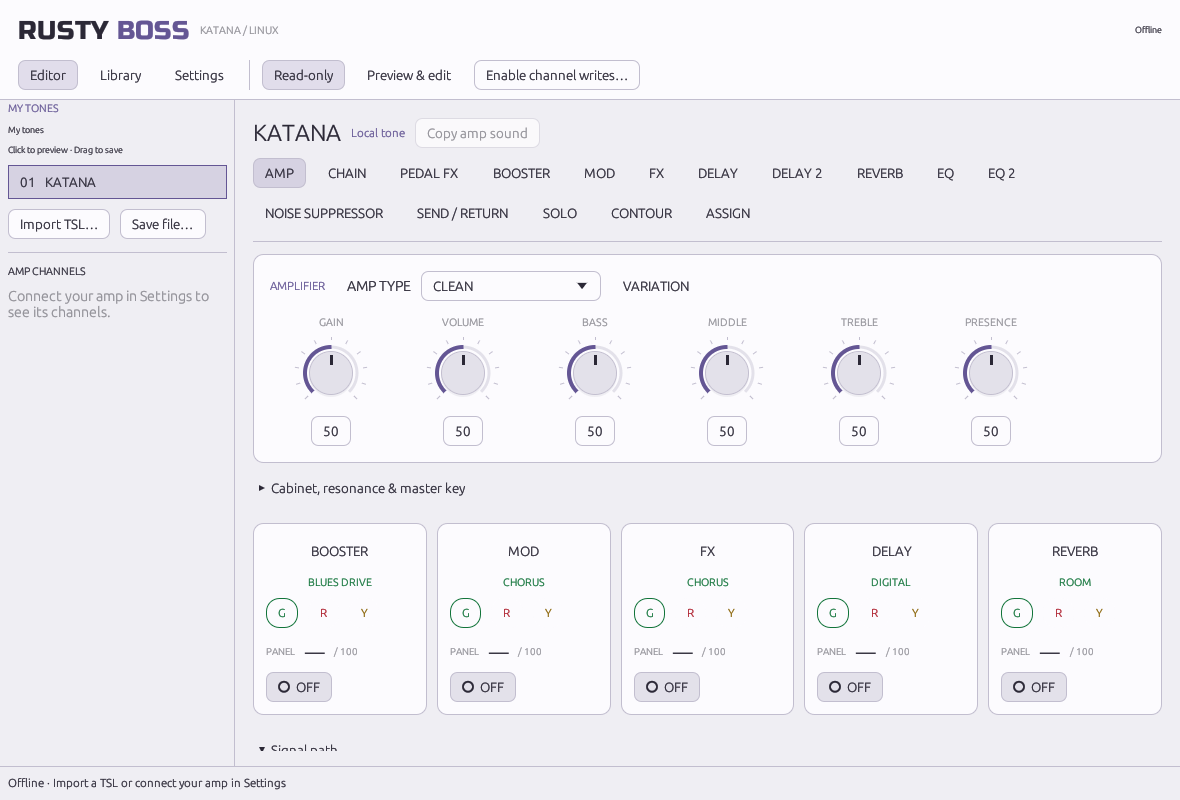
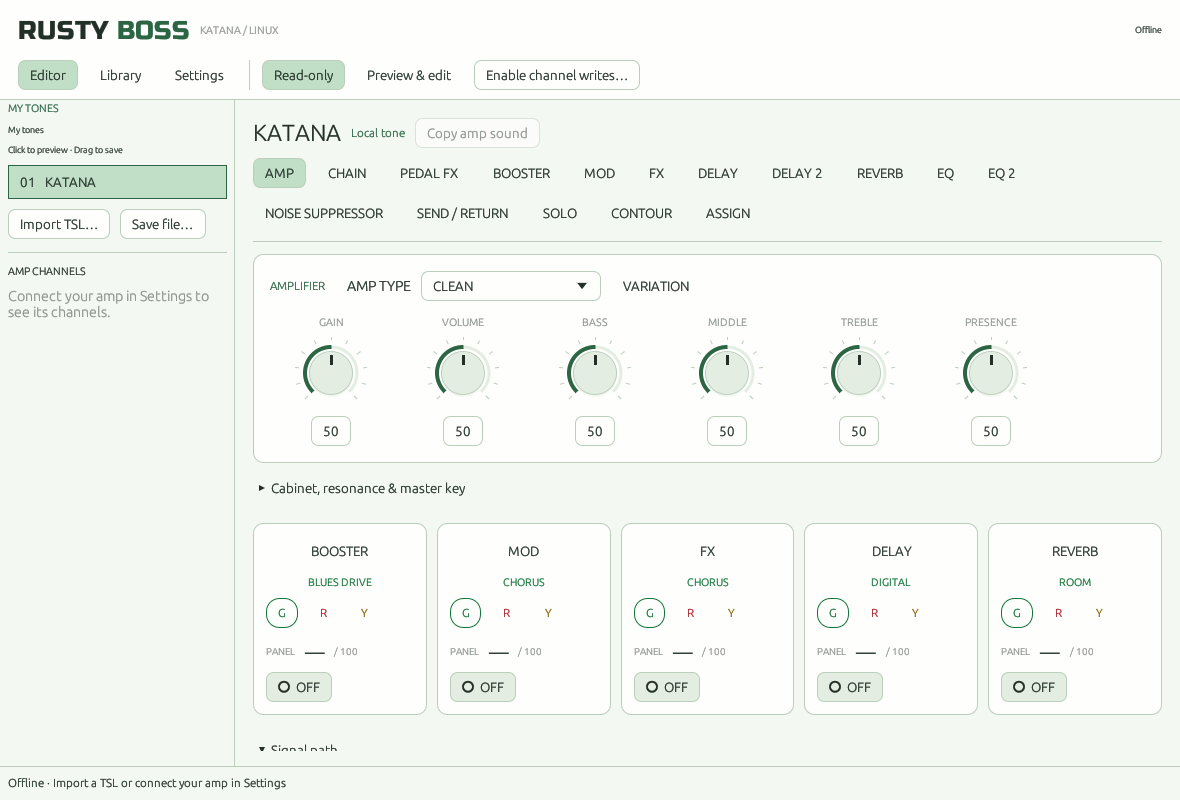
Updated themes

diff --git a/src/gui/theme.rs b/src/gui/theme.rs
@@ -23,21 +23,36 @@ impl Theme {
     }
     pub fn accent(self) -> Color32 {
         match self {
-            Self::Justice => Color32::from_rgb(100, 86, 148),
+            // Pale green is used for fills; text/knob accents need contrast on white.
+            Self::Justice => Color32::from_rgb(43, 101, 68),
             Self::Kill => Color32::from_rgb(245, 79, 91),
-            Self::Puppet => Color32::from_rgb(244, 161, 85),
-            Self::Lightning => Color32::from_rgb(62, 195, 255),
+            Self::Puppet => Color32::from_rgb(244, 166, 94),
+            Self::Lightning => Color32::from_rgb(137, 183, 234),
+        }
+    }
+    fn selection_accent(self) -> Color32 {
+        match self {
+            Self::Lightning => Color32::from_rgb(185, 149, 240),
+            _ => self.accent(),
+        }
+    }
+    fn selection_fill(self) -> Color32 {
+        match self {
+            Self::Justice => Color32::from_rgb(193, 223, 199),
+            Self::Kill => Color32::from_rgb(60, 24, 33),
+            Self::Puppet => Color32::from_rgb(87, 58, 36),
+            Self::Lightning => Color32::from_rgb(58, 47, 86),
         }
     }
     pub fn apply(self, ctx: &egui::Context) {
         let light = self == Self::Justice;
         let (background, surface, raised, text, border) = match self {
             Self::Justice => (
-                (239, 238, 243),
-                (252, 251, 254),
-                (227, 225, 234),
-                (43, 40, 54),
-                (194, 190, 207),
+                (244, 248, 242),
+                (254, 255, 252),
+                (227, 237, 226),
+                (34, 48, 39),
+                (186, 206, 187),
             ),
             Self::Kill => (
                 (24, 15, 20),
@@ -47,18 +62,18 @@ impl Theme {
                 (81, 47, 59),
             ),
             Self::Puppet => (
-                (20, 22, 27),
-                (29, 32, 39),
-                (43, 47, 56),
-                (230, 229, 228),
-                (64, 66, 75),
+                (26, 21, 19),
+                (39, 31, 27),
+                (58, 45, 36),
+                (239, 230, 216),
+                (85, 66, 51),
             ),
             Self::Lightning => (
-                (11, 20, 34),
-                (19, 31, 49),
-                (28, 47, 69),
-                (219, 238, 252),
-                (43, 73, 99),
+                (17, 19, 33),
+                (27, 39, 58),
+                (44, 59, 82),
+                (226, 235, 247),
+                (76, 94, 124),
             ),
         };
         let rgb = |(r, g, b)| Color32::from_rgb(r, g, b);
@@ -73,10 +88,8 @@ impl Theme {
         v.extreme_bg_color = rgb(background);
         v.faint_bg_color = rgb(surface);
         v.override_text_color = Some(rgb(text));
-        v.selection.bg_fill = self
-            .accent()
-            .gamma_multiply(if light { 0.18 } else { 0.28 });
-        v.selection.stroke = Stroke::new(1_f32, self.accent());
+        v.selection.bg_fill = self.selection_fill();
+        v.selection.stroke = Stroke::new(1_f32, self.selection_accent());
         v.hyperlink_color = self.accent();
         v.window_stroke = Stroke::new(1_f32, rgb(border));
         v.widgets.noninteractive.bg_fill = rgb(surface);
@@ -94,8 +107,22 @@ impl Theme {
             w.bg_stroke = Stroke::new(1_f32, rgb(border));
             w.fg_stroke = Stroke::new(1_f32, rgb(text));
         }
-        v.widgets.hovered.bg_stroke = Stroke::new(1_f32, self.accent());
-        v.widgets.active.bg_stroke = Stroke::new(1.5_f32, self.accent());
+        // Carry the palette into interaction states, not just the page background.
+        let hover = match self {
+            Self::Justice => Color32::from_rgb(216, 234, 217),
+            Self::Kill => Color32::from_rgb(65, 34, 44),
+            Self::Puppet => Color32::from_rgb(73, 52, 38),
+            Self::Lightning => Color32::from_rgb(52, 61, 91),
+        };
+        v.widgets.hovered.bg_fill = hover;
+        v.widgets.hovered.weak_bg_fill = hover;
+        v.widgets.hovered.bg_stroke = Stroke::new(1_f32, self.selection_accent());
+        v.widgets.active.bg_fill = self.selection_fill();
+        v.widgets.active.weak_bg_fill = self.selection_fill();
+        v.widgets.active.bg_stroke = Stroke::new(1.5_f32, self.selection_accent());
+        v.widgets.open.bg_fill = self.selection_fill();
+        v.widgets.open.weak_bg_fill = self.selection_fill();
+        v.widgets.open.bg_stroke = Stroke::new(1_f32, self.selection_accent());
         style.visuals = v;
         style.spacing.item_spacing = egui::vec2(10., 10.);
         style.spacing.button_padding = egui::vec2(12., 7.);
@@ -140,10 +167,104 @@ mod tests {
         for theme in Theme::ALL {
             theme.apply(&ctx);
             assert_eq!(ctx.style().visuals.dark_mode, theme != Theme::Justice);
-            assert_eq!(ctx.style().visuals.selection.stroke.color, theme.accent());
+            assert_eq!(
+                ctx.style().visuals.selection.stroke.color,
+                theme.selection_accent()
+            );
             let v = &ctx.style().visuals;
             let luminance = |c: Color32| (c.r() as i32 + c.g() as i32 + c.b() as i32) / 3;
             assert!((luminance(v.text_color()) - luminance(v.panel_fill)).abs() > 130);
+        }
+    }
+    #[test]
+    fn palettes_follow_the_requested_green_blue_purple_and_copper_directions() {
+        let ctx = egui::Context::default();
+        Theme::Lightning.apply(&ctx);
+        let v = ctx.style().visuals.clone();
+        let blue = Theme::Lightning.accent();
+        let purple = v.selection.stroke.color;
+        assert!(blue.b() > blue.g() && blue.g() > blue.r());
+        assert!(purple.b() > purple.r() && purple.r() > purple.g());
+        assert_ne!(blue, purple);
+        assert_eq!(v.widgets.active.bg_stroke.color, purple);
+        assert_eq!(v.widgets.hovered.bg_stroke.color, purple);
+
+        // Switching to Justice must not retain Lightning's purple interaction colours.
+        Theme::Justice.apply(&ctx);
+        let v = ctx.style().visuals.clone();
+        assert!(!v.dark_mode);
+        assert!(v.window_fill.r() >= 250 && v.window_fill.g() >= 250 && v.window_fill.b() >= 250);
+        for fill in [
+            v.selection.bg_fill,
+            v.widgets.hovered.bg_fill,
+            v.widgets.active.bg_fill,
+            v.widgets.open.bg_fill,
+        ] {
+            assert!(fill.r() >= 180 && fill.g() > fill.r() && fill.g() > fill.b());
+        }
+        for ink in [
+            v.selection.stroke.color,
+            v.widgets.hovered.bg_stroke.color,
+            v.hyperlink_color,
+        ] {
+            assert!(ink.g() > ink.r() && ink.g() > ink.b());
+        }
+
+        Theme::Puppet.apply(&ctx);
+        let v = ctx.style().visuals.clone();
+        for surface in [
+            v.panel_fill,
+            v.window_fill,
+            v.widgets.inactive.bg_fill,
+            v.widgets.hovered.bg_fill,
+            v.widgets.active.bg_fill,
+            v.widgets.open.bg_fill,
+            v.widgets.noninteractive.bg_stroke.color,
+        ] {
+            assert!(
+                surface.r() > surface.g() && surface.g() > surface.b(),
+                "Puppet must carry warm copper/earth tones through all surfaces"
+            );
+        }
+    }
+    #[test]
+    fn text_and_selection_accents_have_readable_contrast() {
+        fn luminance(c: Color32) -> f32 {
+            let linear = |n: u8| {
+                let v = n as f32 / 255.;
+                if v <= 0.04045 {
+                    v / 12.92
+                } else {
+                    ((v + 0.055) / 1.055).powf(2.4)
+                }
+            };
+            0.2126 * linear(c.r()) + 0.7152 * linear(c.g()) + 0.0722 * linear(c.b())
+        }
+        fn contrast(a: Color32, b: Color32) -> f32 {
+            let a = luminance(a);
+            let b = luminance(b);
+            (a.max(b) + 0.05) / (a.min(b) + 0.05)
+        }
+        let ctx = egui::Context::default();
+        for theme in Theme::ALL {
+            theme.apply(&ctx);
+            let v = ctx.style().visuals.clone();
+            for bg in [
+                v.panel_fill,
+                v.window_fill,
+                v.widgets.inactive.bg_fill,
+                v.widgets.hovered.bg_fill,
+            ] {
+                assert!(contrast(v.text_color(), bg) >= 4.5, "{theme:?} body text");
+            }
+            assert!(
+                contrast(theme.accent(), v.window_fill) >= 4.5,
+                "{theme:?} accent text"
+            );
+            assert!(
+                contrast(v.selection.stroke.color, v.selection.bg_fill) >= 4.5,
+                "{theme:?} selection"
+            );
         }
     }
     #[test]

diff --git a/src/gui.rs b/src/gui.rs
@@ -989,7 +989,7 @@ impl App {
                 }
             }
         });
-        ui.small("Puppet · warm orange    Justice · pearl light    Kill · crimson    Lightning · plasma blue");
+        ui.small("Puppet · copper & earth    Justice · pearl & pale green    Kill · crimson    Lightning · steel blue & purple");
         ui.separator();
         egui::CollapsingHeader::new("Backup & channel reads").show(ui, |ui| {
             self.backup_page(ui);

diff --git a/docs/VALIDATION.md b/docs/VALIDATION.md
@@ -7,9 +7,9 @@ not execution/behavioral equivalence of the original application.
 | Check | Result |
 |---|---|
 | `cargo fmt --check` (after formatting) | Passed |
-| `cargo test --locked` | **64 passed**: 50 unit/UI + 14 integration tests |
+| `cargo test --locked` | **66 passed**: 52 unit/UI + 14 integration tests |
 | `cargo test --locked --no-default-features` | **46 passed**: 32 unit + 14 integration tests |
-| `cargo test --locked --no-default-features --features gui` | **55 passed**: 41 unit/UI + 14 integration tests |
+| `cargo test --locked --no-default-features --features gui` | **57 passed**: 43 unit/UI + 14 integration tests |
 | `cargo clippy --all-targets -- -D warnings` | Passed |
 | `cargo clippy --no-default-features --features gui --all-targets -- -D warnings` | Passed |
 | `cargo build --locked` | Passed |
@@ -55,6 +55,10 @@ smoke test on a display-enabled host, use
 - Large livesets keep preset rows and channel drop targets visible simultaneously.
   Theme round trips/fallback and light/dark contrast are checked. Native portal
   dialog selection itself isn't automated.
+- Palette regression tests cover Justice's pale green fills (including a switch
+  from Lightning with no leftover purple), Lightning's distinct blue and purple
+  roles, and Puppet's warm surfaces/controls. WCAG-style contrast checks require
+  at least 4.5:1 for body text, accent text on cards and selection ink/fill pairs.
 - Header uses bundled Russo One through antialiased font rendering, replacing the
   hard-edged, hand-triangulated spiked wordmark. Live DPI changes at 1×, 1.5×,
   2×, 3× and back to 1× are tested in the same context: glyph atlas texel sizes
@@ -96,7 +100,8 @@ not all interactions. Sequential backup reads are not an atomic snapshot.
 
 This usability pass sent no traffic to the connected amplifier. The earlier
 read-only reverb capture is separate. New logs use the `analysis/usability-*`
-prefix; the current typography/DPI checks use `analysis/brand-*` (earlier
+prefix; the updated palette checks use `analysis/palette-final-*` and refreshed
+all four screenshots. Current typography/DPI checks use `analysis/brand-*` (earlier
 wordmark checks used `analysis/wordmark-*`). Release screenshots are in
 `docs/screenshots/{puppet,justice,kill,lightning}.png`.
 

diff --git a/docs/PRESET-WORKFLOW.md b/docs/PRESET-WORKFLOW.md
@@ -101,9 +101,12 @@ supported. Import asks before discarding unsaved local work; reads of the curren
 amp sound create a new local tone instead of replacing an imported one. Save file
 is explicitly different from saving a channel.
 
-Puppet (default), Kill and Lightning are dark. Justice is pearl light. The
-palette includes cards, controls, knobs, text, selection and effect-bank contrast,
-not just the accent color. Only appearance is persisted; permissions aren't.
+Puppet (default), Kill and Lightning are dark. Justice is pearl white with pale
+green fills and readable dark-green text accents. Lightning mixes metallic
+steel-blue surfaces with purple selection/interaction accents. Puppet carries
+warm copper/earth tones through surfaces, controls and interaction states instead
+of only changing the accent. The palette includes cards, controls, knobs, text,
+selection and effect-bank contrast, not just the accent color. Only appearance is persisted; permissions aren't.
 
 ## Verification boundary
 

diff --git a/README.md b/README.md
@@ -100,10 +100,10 @@ Choose a theme in **Settings → Appearance**. Your choice is remembered.
 
 | Theme | Look |
 |---|---|
-| **Puppet** — default | Warm orange accents on charcoal, inspired by amp hardware. |
-| **Justice** | Pearl-white surfaces with soft violet accents. The only light theme. |
+| **Puppet** — default | Warm copper/orange accents over earth-toned surfaces and controls. |
+| **Justice** | Pearl-white surfaces with pale mint/sage accents. The only light theme. |
 | **Kill** | Crimson accents and deep red-black surfaces. |
-| **Lightning** | Plasma-blue accents over midnight-blue surfaces. |
+| **Lightning** | Metallic steel-blue surfaces and accents mixed with purple selections and highlights. |
 
 [Justice](docs/screenshots/justice.png) · [Kill](docs/screenshots/kill.png) · [Lightning](docs/screenshots/lightning.png)
 
